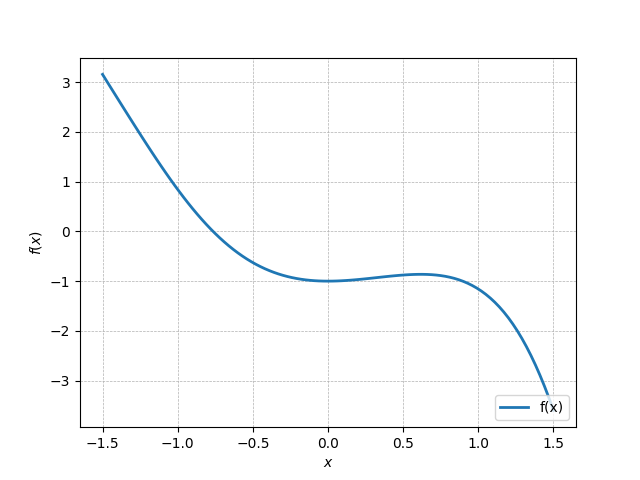
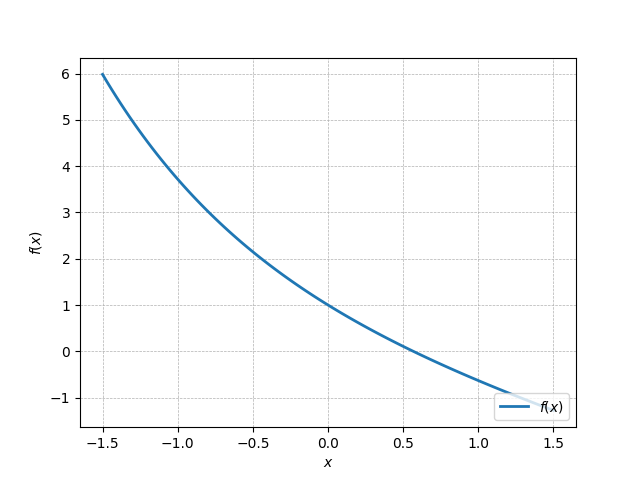
Numeric differentiation: updated docstrings.

diff --git a/incremental_iterative_methods.py b/incremental_iterative_methods.py
@@ -7,13 +7,15 @@ Created on Nov 2, 2020
 A collection of mathematical tools used to obtain solutions by using the
 incremental-iterative approach.
 The function 'func' has to be modified to return your mathematical function
-every time you want to use Newton-Raphson to obtain its solution/roots.
+every time you want to use Newton-Raphson or Riks to obtain its solution/roots.
 """
 
 import cProfile
 import math
-import matplotlib.pyplot as plt
+import warnings
+
 import numpy as np
+import matplotlib.pyplot as plt
 import sympy as sp
 
 from expmap import PrintTimeit
@@ -24,23 +26,23 @@ def func(x):
     
     returns: function object
     
-    Functions composed of special functions like trigonometric functions etc.
-    must be defined with definitions of those functions from the sympy module!
+    Special functions can be from any module: e.g. math, numpy, sympy
     
     Examples:
     math.e**(-x) - x  # math module can be used for constants
-    sp.cos(x) - 2*x  # use sympy (sp) for sin(), cos(), sqrt() etc.
     sp.sqrt(x)  # WARNING: issues arise because the solution may be negative
+    sp.cos(x) - 2*x  # sympy (sp) can be used for sin(), cos(), sqrt() etc.
     math.sin(x**2) - x**3 - 1
+    np.sin(x**2) - x**3 - 1
     """
-    return math.sin(x**2) - x**3 - 1
+    return math.e**(-x) - x
 
 
 def derivative(f, x, h=1e-7):
     """Return approximate derivative by using symmetric difference quotient.
     
     f -- function object
-    x -- float
+    x -- float, point for which the derivative is calculated
     h -- float, small change in x
     
     returns: float
@@ -73,7 +75,7 @@ def plot_func(f, a, b, nsteps=100):
     y = tuple((f(val) for val in x))
     # y = f(x)  # change math.sin -> np.sin
     fig = plt.figure(1)
-    plt.plot(x, y, linewidth=2, label='f(x)')
+    plt.plot(x, y, linewidth=2, label='$f(x)$')
     plt.xlabel('$x$')
     plt.ylabel('$f(x)$')
     plt.legend(loc='lower right')
@@ -88,7 +90,7 @@ def error(a, b):
     """Return the relative error of two values.
     
     a -- float, reference value
-    b -- float, compared value
+    b -- float, value compared to reference value
     
     returns: float, relative error
     """
@@ -100,7 +102,6 @@ def newton_raphson(f, xn):
     Return the solution of a function by using Newton-Raphson method.
     
     f -- function object, mathematical function of ONE argument
-    df -- function object, derivative of mathematical function
     xn -- float, current initial guess
     
     returns: float
@@ -110,12 +111,11 @@ def newton_raphson(f, xn):
     return xn - f(xn) / derivative(f, xn)
 
 
-def riks(f, df, xn):
+def riks(f, xn):
     """
     Return the solution of a function by using Riks (Arc Length) method.
     
-    f -- mathematical function of ONE argument
-    df -- function object, derivative of mathematical function
+    f -- function object, mathematical function of ONE argument
     xn -- float, current initial guess
     
     returns: float
@@ -124,14 +124,15 @@ def riks(f, df, xn):
 
 
 @PrintTimeit
-def iterate(f, x0, method=newton_raphson, tol=1e-7, imax=50):
+def iterate(f, x0, method=newton_raphson, tol=1e-7, imax=50, echo=False):
     """Return the solution of iteration procedure for the chosen method.
     
-    f -- function object mathematical function of ONE argument
+    f -- function object, mathematical function of ONE argument
     x0 -- float, initial guess
     method -- function object
     tol -- float
     imax -- integer, maximum number of iterations
+    echo -- boolean, call iterate() with echo=True to print iteration
     
     returns: float
     
@@ -139,17 +140,25 @@ def iterate(f, x0, method=newton_raphson, tol=1e-7, imax=50):
     # NUMERIC: iterate ran in 2e-05s
     # SYMBOLIC: iterate ran in 0.06404s
     # cProfile.run() number of calls reduced from:
-    # 86 function calls in 0.000 seconds
+    # 3738 function calls (3566 primitive calls) in 0.004 seconds (SYMBOLIC)
+    # 86 function calls in 0.000 seconds (NUMERIC)
     """
-    # f, df = derive_func(f)
     i = 0
     while error(method(f, x0), x0) > tol and i < imax:
+        if echo:
+            print(f'Iteration: {i:<3}\tx0={x0:<16}\txn={method(f, x0):<16}'
+                  f'\tError={error(method(f, x0), x0):<16}')
         x0 = method(f, x0)
         i += 1
+    
+    if echo:
+        print(f'Iteration: {i:<3}\tx0={x0:<16}\txn={method(f, x0):<16}'
+              f'\tError={error(method(f, x0), x0):<16}')
         
     if i >= imax:
-        raise MaxNumberOfIterationsWarning(
-            'WARNING: Exceeded maximum number of iterations.')
+        warnings.warn(
+            f'\nWARNING: Exceeded maximum number of iterations (imax={imax}).',
+            category=RuntimeWarning)
         
     return method(f, x0)
 
@@ -164,10 +173,10 @@ class MaxNumberOfIterationsWarning(RuntimeWarning):
     
     
 def main():
-    # print(iterate(func, 0))
+    print(iterate(func, 0))
     # cProfile.run('iterate(func, 0)')
-    print(iterate(func, -0.8))
-    cProfile.run('iterate(func, -0.8)')
+    # print(iterate(func, 1, imax=21, echo=True))
+    # cProfile.run('iterate(func, -0.8)')
     # print(iterate(func, 0, method=riks))
     
     plot_func(func, -1.5, 1.5)
